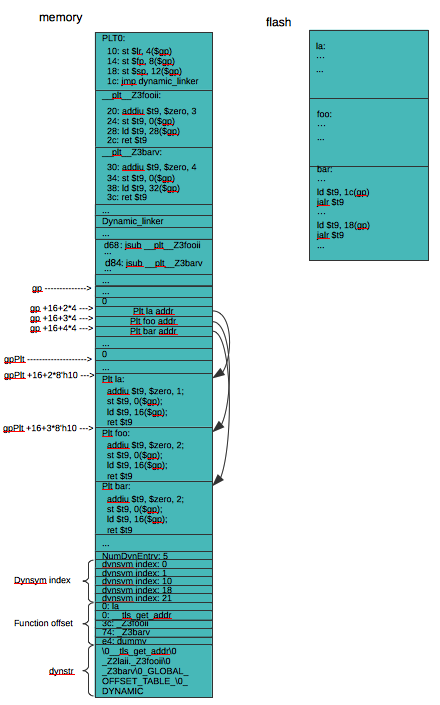
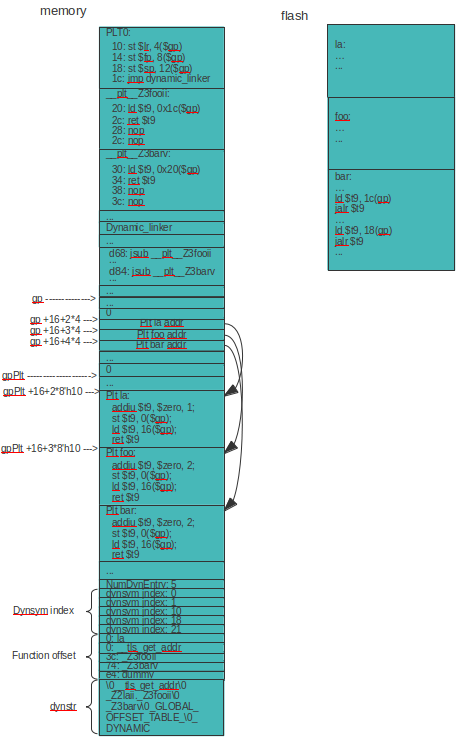
Dynamic linker in lld.rst

diff --git a/docs/BackendTutorial/source/lld.rst b/docs/BackendTutorial/source/lld.rst
@@ -1187,17 +1187,17 @@ After run build-dlinker.sh, the following files are created.
   /*      18:*/	02 db 00 0c                                  /*	st	$sp, 12($gp)*/
   /*      1c:*/	36 00 09 b8                                  /*	jmp	2488*/
 
-  /*__plt__Z3fooii:*/
-  /*      20:*/	09 60 00 04                                  /* addiu	$t9, $zero, 4*/
-  /*      24:*/	02 6b 00 00                                  /*	st	$t9, 0($gp)*/
-  /*      28:*/	01 6b 00 10                                  /*	ld	$t9, 16($gp)*/
-  /*      2c:*/	3c 60 00 00                                  /*	ret	$t9*/
-
   /*__plt__Z3barv:*/
-  /*      30:*/	09 60 00 05                                  /* addiu	$t9, $zero, 5*/
-  /*      34:*/	02 6b 00 00                                  /*	st	$t9, 0($gp)*/
-  /*      38:*/	01 6b 00 10                                  /*	ld	$t9, 16($gp)*/
-  /*      3c:*/	3c 60 00 00                                  /*	ret	$t9*/
+  /*      20:*/	01 6b 00 24                                  /* ld	$t9, 36($gp)
+  /*      24:*/	3c 60 00 00                                  /*	ret	$t9*/
+  /*      28:*/	00 00 00 00                                  /*	nop*/
+  /*      2c:*/	00 00 00 00                                  /*	nop*/
+
+  /*__plt__Z3fooii:*/
+  /*      30:*/	01 6b 00 1c                                  /* ld	$t9, 28($gp)
+  /*      34:*/	3c 60 00 00                                  /*	ret	$t9*/
+  /*      38:*/	00 00 00 00                                  /*	nop*/
+  /*      3c:*/	00 00 00 00                                  /*	nop*/
   ...
 
   /*main:*/

diff --git a/docs/BackendTutorial/source/about.rst b/docs/BackendTutorial/source/about.rst
@@ -54,6 +54,7 @@ Revision history
 
 Version 3.3.10, Not release yet.
   Correct typing error.
+  Dynamic linker in lld.rst.
 
 Version 3.3.9, Not release yet.
   Add LLD introduction and Cpu0 static linker document in lld.rst.
